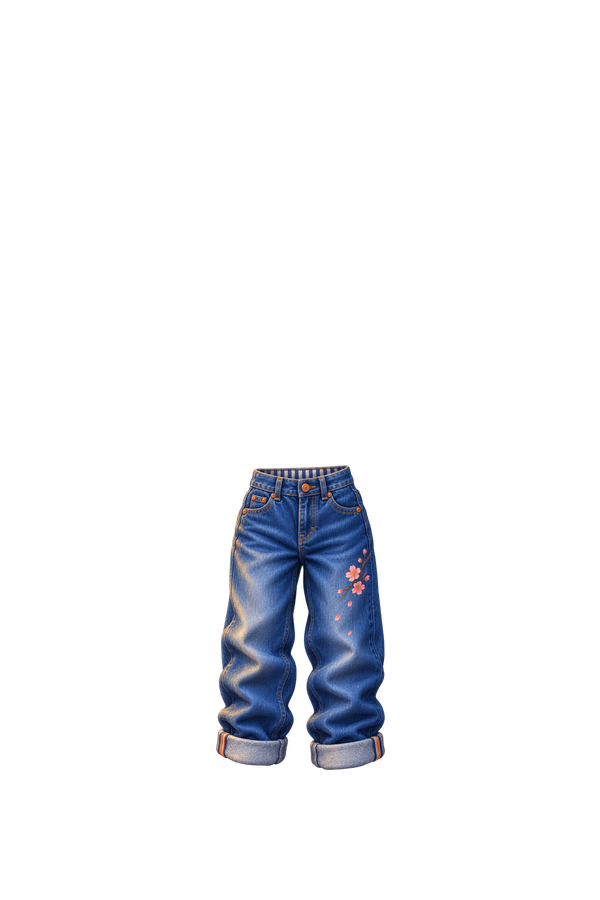
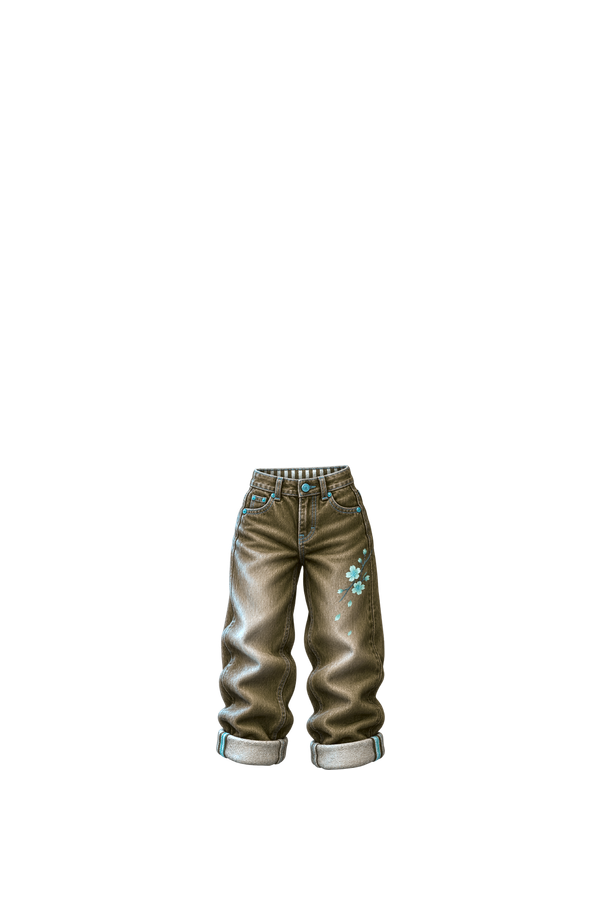
Recolor wide-leg-pants, rebalance head/hair scale, soften collar
- Diagnosed "Wide-leg pants doesn't render" for real this time: it was never
  a code/deploy bug (verified via DOM src, aria-label, and a byte-hash diff
  against travel-jeans across three prior passes) — the art itself was just
  visually near-identical to the jeans it replaces (same blue denim tone,
  same cuffed hem). Recolored it to a distinct khaki/olive tone so the swap
  is unmistakable regardless of art similarity.
- Head was wider than the shoulders below it: scaled the head/face group and
  the hair group by the same factor (.8) around the same pivot, which keeps
  them attached with no gap (a mismatched-scale attempt briefly caused a real
  gap, corrected). Reduced hair curl-circle radius slightly to reduce visual
  bulk. Removed the hair layer's drop-shadow filter, which the head doesn't
  have — that asymmetry was reading as hair "floating" above the head.
- Softened the base-outfit undershirt shape's sharp-cornered neckline (visible
  above the shirt collar now that the head is smaller) with a narrower path
  and a blur filter, consistent with the painterly shading elsewhere.
- Tried and reverted three different arm/shoulder-hint shapes at the sleeve
  line — each read as a disconnected blob against the sleeve's own shading
  rather than a natural arm. Left the silhouette armless (hands-tucked-
  behind-back) rather than ship a worse result.

Changed region(s): [[0.36, 0.4978, 0.66, 0.8711]]

diff --git a/src/LittleJetterApp.tsx b/src/LittleJetterApp.tsx
@@ -119,16 +119,18 @@ function ClassicDoll({ picks, character, garmentColors, onlyLayer, previewViewBo
     <defs><radialGradient id="skinGlow" cx="34%" cy="20%" r="82%"><stop stopColor="#fff" stopOpacity=".48"/><stop offset=".42" stopColor={skin}/><stop offset=".82" stopColor={skin}/><stop offset="1" stopColor="#70432f" stopOpacity=".3"/></radialGradient><linearGradient id="skinBody" x1=".18" y1="0" x2=".82" y2="1"><stop stopColor="#fff" stopOpacity=".3"/><stop offset=".3" stopColor={skin}/><stop offset="1" stopColor="#70432f" stopOpacity=".23"/></linearGradient><linearGradient id="underTop" x1="0" y1="0" x2="1" y2="1"><stop stopColor="#fffdf6"/><stop offset=".55" stopColor="#fff3d8"/><stop offset="1" stopColor="#dfc397"/></linearGradient><linearGradient id="underBottom" x1="0" y1="0" x2="1" y2="1"><stop stopColor="#8eabc2"/><stop offset=".55" stopColor="#607f9d"/><stop offset="1" stopColor="#405f7c"/></linearGradient><linearGradient id="hairShade" x1=".2" y1="0" x2=".8" y2="1"><stop stopColor="#fff" stopOpacity=".24"/><stop offset=".28" stopColor={hair}/><stop offset="1" stopColor="#211a19" stopOpacity=".46"/></linearGradient><linearGradient id="topShade" x1=".15" y1="0" x2=".85" y2="1"><stop stopColor="#fff" stopOpacity=".4"/><stop offset=".45" stopColor={top}/><stop offset="1" stopColor="#173a47" stopOpacity=".2"/></linearGradient><linearGradient id="bottomShade" x1=".1" y1="0" x2=".9" y2="1"><stop stopColor="#fff" stopOpacity=".26"/><stop offset=".42" stopColor={bottom}/><stop offset="1" stopColor="#173a47" stopOpacity=".25"/></linearGradient><linearGradient id="layerShade" x1=".1" y1="0" x2=".9" y2="1"><stop stopColor="#fff" stopOpacity=".4"/><stop offset=".48" stopColor={layer}/><stop offset="1" stopColor="#173a47" stopOpacity=".22"/></linearGradient><linearGradient id="shoeShade" x1=".15" y1="0" x2=".85" y2="1"><stop stopColor="#fff" stopOpacity=".3"/><stop offset=".44" stopColor={shoes}/><stop offset="1" stopColor="#173a47" stopOpacity=".28"/></linearGradient><filter id="softShadow"><feDropShadow dx="0" dy="4" stdDeviation="5" floodColor="#173a47" floodOpacity=".18"/></filter><filter id="neckBlend" x="-60%" y="-60%" width="220%" height="220%"><feGaussianBlur stdDeviation="3.2"/></filter></defs>
     <g transform="scale(1.5)"><ellipse cx="200" cy="520" rx="82" ry="13" fill="#173a47" opacity=".16" filter="url(#softShadow)"/>
     {/* Arms are tucked behind the back (hands-in-pockets pose) — not drawn from
-     the front, so no bare-arm shape has to visually match every top's sleeve
-     coverage at the shoulder line. */}
-    <g data-layer="base"><path d="M174 329l-15 145-8 31q-4 17 12 22 16 4 23-14l14-54 14 54q7 18 23 14 16-5 12-22l-8-31-15-145z" fill="url(#skinBody)"/><path d="M184 194h32l6 32h-44z" fill="url(#skinBody)"/><ellipse cx="200" cy="196" rx="19" ry="7" fill="#70432f" opacity=".14" filter="url(#neckBlend)"/><ellipse cx="200" cy="223" rx="27" ry="9" fill="#70432f" opacity=".22" filter="url(#neckBlend)"/><ellipse cx="143" cy="151" rx="12" ry="18" fill="url(#skinBody)"/><ellipse cx="257" cy="151" rx="12" ry="18" fill="url(#skinBody)"/><circle cx="200" cy="145" r="63" fill="url(#skinGlow)"/><ellipse cx="182" cy="155" rx="12" ry="14" fill="#fffaf4"/><ellipse cx="218" cy="155" rx="12" ry="14" fill="#fffaf4"/><circle cx="182" cy="157" r="7" fill={eyes}/><circle cx="218" cy="157" r="7" fill={eyes}/><circle cx="179" cy="153" r="2.7" fill="white"/><circle cx="215" cy="153" r="2.7" fill="white"/><path d="M169 136q13-8 25 0m12 0q12-8 25 0" fill="none" stroke={hair} strokeOpacity=".7" strokeWidth="4" strokeLinecap="round"/><path d="M201 157q-5 11 1 15" fill="none" stroke="#8d5847" strokeOpacity=".45" strokeWidth="2.5" strokeLinecap="round"/><path d="M184 181q16 15 32 0" fill="#c85f61" fillOpacity=".16" stroke="#9b4d46" strokeWidth="3.2" strokeLinecap="round"/><ellipse cx="163" cy="174" rx="12" ry="7" fill="#ef8f80" opacity=".26"/><ellipse cx="237" cy="174" rx="12" ry="7" fill="#ef8f80" opacity=".26"/>{character.style === 'girl' && <><path d="M169 150l-5-3m68 3 5-3" stroke={hair} strokeWidth="2.5" strokeLinecap="round"/><circle cx="171" cy="173" r="1.5" fill="#9b5b4b" opacity=".5"/><circle cx="176" cy="176" r="1.4" fill="#9b5b4b" opacity=".45"/><circle cx="229" cy="173" r="1.5" fill="#9b5b4b" opacity=".5"/><circle cx="224" cy="176" r="1.4" fill="#9b5b4b" opacity=".45"/></>}</g>
-    <g key={`${hairStyle}-${character.hair}`} data-layer="hair" data-hair-style={hairStyle} filter="url(#softShadow)">
+     the front. Three attempts at a visible arm/forearm hint here all read as a
+     disconnected blob next to the sleeve (the flat skin ellipse doesn't blend
+     with the sleeve's own shading at any size/position tried), so this stays
+     armless rather than shipping a worse-looking shape. */}
+    <g data-layer="base"><path d="M174 329l-15 145-8 31q-4 17 12 22 16 4 23-14l14-54 14 54q7 18 23 14 16-5 12-22l-8-31-15-145z" fill="url(#skinBody)"/><path d="M184 194h32l6 32h-44z" fill="url(#skinBody)"/><ellipse cx="200" cy="196" rx="19" ry="7" fill="#70432f" opacity=".14" filter="url(#neckBlend)"/><ellipse cx="200" cy="223" rx="27" ry="9" fill="#70432f" opacity=".22" filter="url(#neckBlend)"/><g transform="translate(200,194) scale(.8) translate(-200,-194)"><ellipse cx="143" cy="151" rx="12" ry="18" fill="url(#skinBody)"/><ellipse cx="257" cy="151" rx="12" ry="18" fill="url(#skinBody)"/><circle cx="200" cy="145" r="63" fill="url(#skinGlow)"/><ellipse cx="182" cy="155" rx="12" ry="14" fill="#fffaf4"/><ellipse cx="218" cy="155" rx="12" ry="14" fill="#fffaf4"/><circle cx="182" cy="157" r="7" fill={eyes}/><circle cx="218" cy="157" r="7" fill={eyes}/><circle cx="179" cy="153" r="2.7" fill="white"/><circle cx="215" cy="153" r="2.7" fill="white"/><path d="M169 136q13-8 25 0m12 0q12-8 25 0" fill="none" stroke={hair} strokeOpacity=".7" strokeWidth="4" strokeLinecap="round"/><path d="M201 157q-5 11 1 15" fill="none" stroke="#8d5847" strokeOpacity=".45" strokeWidth="2.5" strokeLinecap="round"/><path d="M184 181q16 15 32 0" fill="#c85f61" fillOpacity=".16" stroke="#9b4d46" strokeWidth="3.2" strokeLinecap="round"/><ellipse cx="163" cy="174" rx="12" ry="7" fill="#ef8f80" opacity=".26"/><ellipse cx="237" cy="174" rx="12" ry="7" fill="#ef8f80" opacity=".26"/>{character.style === 'girl' && <><path d="M169 150l-5-3m68 3 5-3" stroke={hair} strokeWidth="2.5" strokeLinecap="round"/><circle cx="171" cy="173" r="1.5" fill="#9b5b4b" opacity=".5"/><circle cx="176" cy="176" r="1.4" fill="#9b5b4b" opacity=".45"/><circle cx="229" cy="173" r="1.5" fill="#9b5b4b" opacity=".5"/><circle cx="224" cy="176" r="1.4" fill="#9b5b4b" opacity=".45"/></>}</g></g>
+    <g key={`${hairStyle}-${character.hair}`} data-layer="hair" data-hair-style={hairStyle} transform="translate(200,194) scale(.8) translate(-200,-194)">
       {hairStyle === 'short' && <><path d="M143 145q2-71 57-71 58 0 57 73-18-38-57-38-38 0-57 36z" fill={hair} stroke="#173a47" strokeWidth="5"/><path d="M153 111q47-34 94 5" fill="none" stroke="white" strokeOpacity=".13" strokeWidth="7" strokeLinecap="round"/></>}
       {hairStyle === 'bob' && <><path d="M137 150q-3-84 63-84 67 0 64 84l-9 63-30-13 7-74q-32-29-64 0l7 74-30 13z" fill={hair} stroke="#173a47" strokeWidth="5"/><path d="M158 105q42-29 83 4" fill="none" stroke="white" strokeOpacity=".14" strokeWidth="7" strokeLinecap="round"/></>}
       {hairStyle === 'coils' && <><path d="M148 147q-1-68 52-68 53 0 52 68-17-39-52-39-36 0-52 39z" fill={hair} stroke="#173a47" strokeWidth="5"/>{[[139,104,27],[261,104,27],[153,82,22],[247,82,22],[177,72,21],[223,72,21]].map(([cx,cy,r])=><circle key={`${cx}-${cy}`} cx={cx} cy={cy} r={r} fill={hair} stroke="#173a47" strokeWidth="3"/>)}<path d="M171 91q29-19 58 0" fill="none" stroke="white" strokeOpacity=".13" strokeWidth="6" strokeLinecap="round"/></>}
-      {hairStyle === 'curls' && <><path d="M139 147q-5-81 61-81 68 0 62 84-17-47-62-47-43 0-61 44z" fill={hair} stroke="#173a47" strokeWidth="5"/>{[146,164,182,218,236,254].map((x,index)=><circle key={x} cx={x} cy={index%2?91:108} r="18" fill={hair} stroke="#173a47" strokeWidth="3"/>)}<path d="M156 116q44-39 88 0" fill="none" stroke="white" strokeOpacity=".13" strokeWidth="7" strokeLinecap="round"/></>}
+      {hairStyle === 'curls' && <><path d="M139 147q-5-81 61-81 68 0 62 84-17-47-62-47-43 0-61 44z" fill={hair} stroke="#173a47" strokeWidth="5"/>{[146,164,182,218,236,254].map((x,index)=><circle key={x} cx={x} cy={index%2?95:110} r="14" fill={hair} stroke="#173a47" strokeWidth="3"/>)}<path d="M156 116q44-39 88 0" fill="none" stroke="white" strokeOpacity=".13" strokeWidth="7" strokeLinecap="round"/></>}
     </g>
-    <g data-layer="base-outfit"><path d="M163 207q37-17 74 0l10 122q-47 18-94 0z" fill="url(#underTop)"/><path d="M154 320h92l5 83-43 5-8-49-8 49-43-5z" fill="url(#underBottom)"/><path d="M175 211q25 24 50 0" fill="none" stroke="#e7cda4" strokeWidth="5"/><path d="M162 316q38 12 76 0" fill="none" stroke="#fff" strokeOpacity=".45" strokeWidth="4"/><circle cx="200" cy="286" r="6" fill="#e85849"/></g>
+    <g data-layer="base-outfit"><path d="M172 213q28-14 56 0l9 116q-37 14-74 0z" fill="url(#underTop)" filter="url(#neckBlend)"/><path d="M154 320h92l5 83-43 5-8-49-8 49-43-5z" fill="url(#underBottom)"/><path d="M180 216q20 20 40 0" fill="none" stroke="#e7cda4" strokeWidth="5"/><path d="M162 316q38 12 76 0" fill="none" stroke="#fff" strokeOpacity=".45" strokeWidth="4"/><circle cx="200" cy="286" r="6" fill="#e85849"/></g>
     <g key={picks.shoes} data-layer="shoes" filter="url(#softShadow)"><ellipse cx="160" cy="509" rx="45" ry="9" fill="#173a47" opacity=".18"/><ellipse cx="240" cy="509" rx="45" ry="9" fill="#173a47" opacity=".18"/><path d={picks.shoes==='boots'?'M136 440q29 7 58 0l1 65q-42 18-76-2zm70 0q29 7 58 0l17 63q-34 20-76 2z':'M139 461q27 8 55 0l1 42q-43 20-76-1zm67 0q27 8 55 0l20 41q-33 21-76 1z'} fill="url(#shoeShade)" stroke="#173a47" strokeWidth="5"/><path d="M139 484q24 7 48 0m26 0q24 7 48 0" stroke="white" strokeWidth="5"/>{(picks.shoes==='sneakers'||picks.shoes==='high-tops')&&<><path d="M151 466l25 28m-9-30 19 22m63-20-25 28m9-30-19 22" stroke="white" strokeWidth="4"/></>}</g>
     <g key={picks.bottoms} data-layer="bottom" filter="url(#softShadow)">{isSkirt?<><path d="M155 319q45 10 90 0l23 130q-68 29-136 0z" fill={bottom} stroke="#173a47" strokeWidth="4"/><path d="M158 330q42 9 84 0" fill="none" stroke="white" strokeOpacity=".38" strokeWidth="6"/><path d="M177 343l-16 91m62-91 16 91" stroke="white" strokeOpacity=".2" strokeWidth="4"/></>:<><path d={isShorts?'M153 319q47 10 94 0l7 80q-22 9-45 3l-9-43-9 43q-23 6-45-3z':'M155 319q45 10 90 0l10 149q-22 8-43 0l-12-108-12 108q-21 8-43 0z'} fill="url(#bottomShade)" stroke="#173a47" strokeWidth="4"/><path d="M159 331q41 9 82 0" fill="none" stroke="white" strokeOpacity=".38" strokeWidth="6"/>{picks.bottoms==='travel-jeans'&&<><path d="M166 350q8 58 2 101m66-101q-8 58-2 101" stroke="#d9eef5" strokeOpacity=".42" strokeWidth="3" strokeDasharray="5 5"/><path d="M200 329v34" stroke="#173a47" strokeWidth="3"/><path d="M176 337q8 14 19 9m29-9q-8 14-19 9" fill="none" stroke="#d9eef5" strokeOpacity=".38" strokeWidth="3"/></>}</>}</g>
     <g key={picks.tops} data-layer="top" filter="url(#softShadow)"><path d={isDress?'M149 225q22-17 43-13l8 17 8-17q21-4 43 13l13 88 34 104q-98 42-196 0l34-104z':'M150 225q22-17 42-13l8 17 8-17q20-4 42 13l18 88q-68 34-136 0z'} fill="url(#topShade)" stroke="#173a47" strokeWidth="4"/><path d={isSweater?'M151 231q-17 16-45 53l25 24 34-48m84-29q17 16 45 53l-25 24-34-48':'M151 233q-15 13-37 40l24 20 27-39m84-21q15 13 37 40l-24 20-27-39'} fill={top} stroke="#173a47" strokeWidth="4"/><path d="M180 216q20 25 40 0" fill="none" stroke="#fff8e8" strokeOpacity=".9" strokeWidth="6"/><path d="M144 311q56 17 112 0" fill="none" stroke="#173a47" strokeOpacity=".2" strokeWidth="3"/>{picks.tops==='stripe'&&[251,274,297].map(y=><path key={y} d={`M139 ${y}q61 14 122 0`} stroke="#fff8e8" strokeWidth="10"/>)}{picks.tops==='adventure-shirt'&&<><path d="M178 219l22 25 22-25" fill="#fff8e8" stroke="#173a47" strokeWidth="3"/><rect x="217" y="264" width="27" height="24" rx="3" fill="#fff8e8" stroke="#173a47" strokeWidth="3"/><path d="M200 244v68" stroke="#fff8e8" strokeOpacity=".65" strokeWidth="3"/></>}{picks.tops==='sweater'&&<><path d="M169 244q31 27 62 0M165 278q35 25 70 0" fill="none" stroke="white" strokeOpacity=".25" strokeWidth="5"/><path d="M137 298l2 14m122-14-2 14" stroke="#fff" strokeOpacity=".45" strokeWidth="5"/></>}</g>
